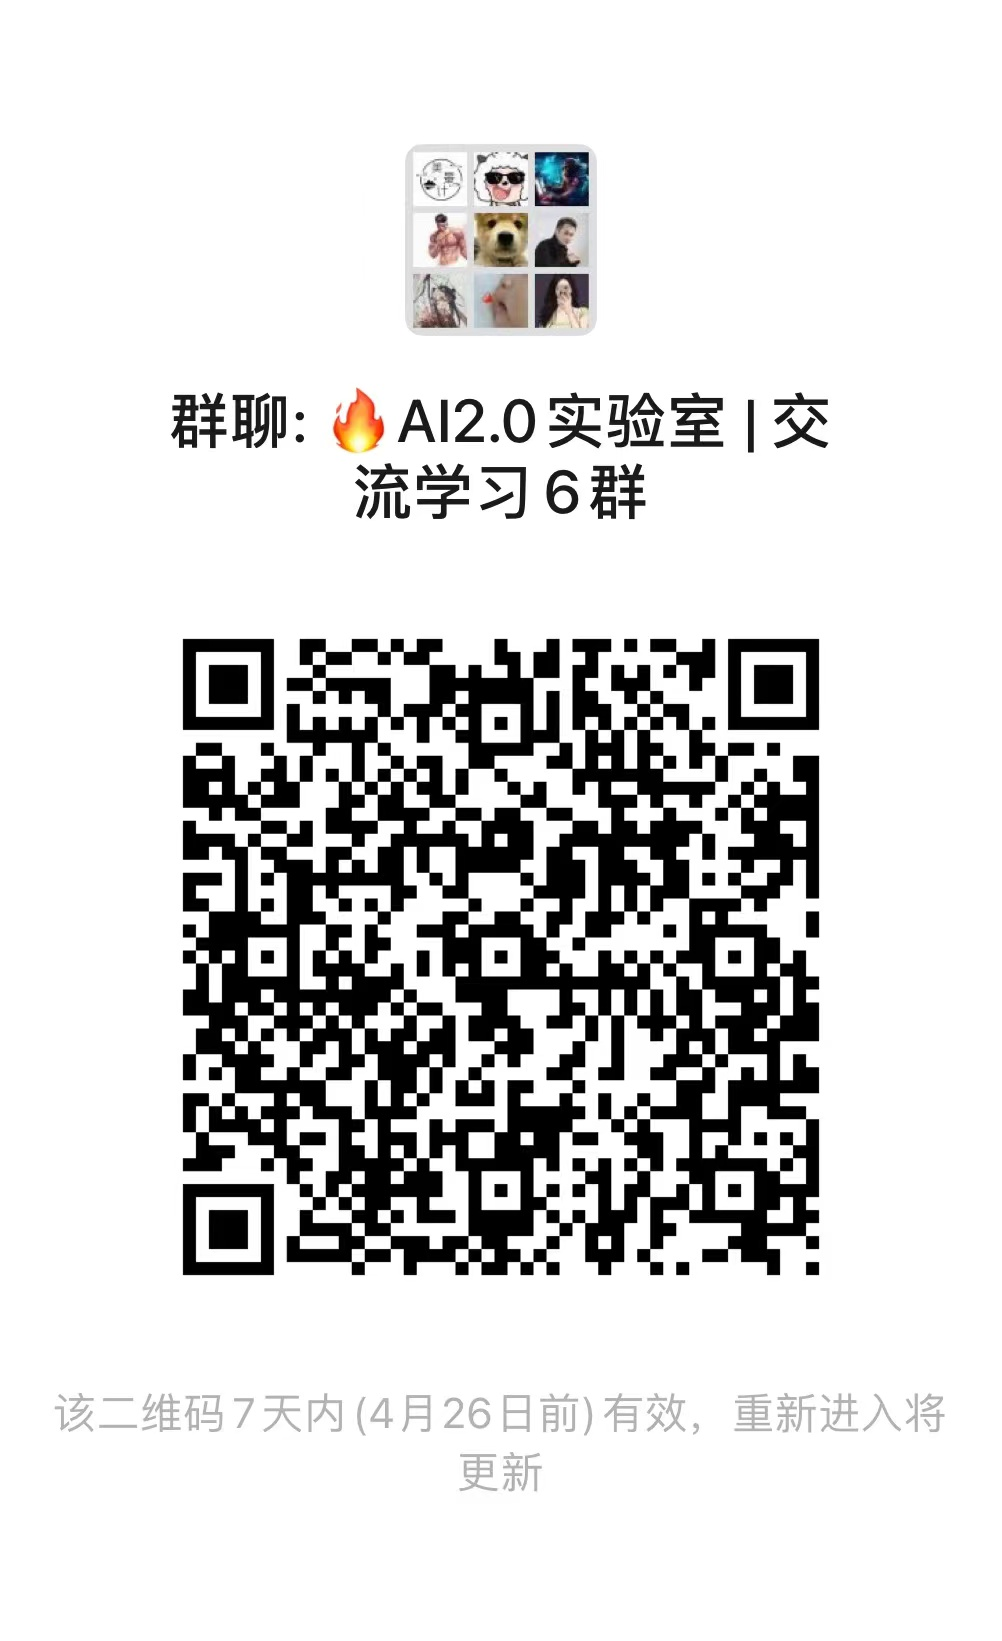
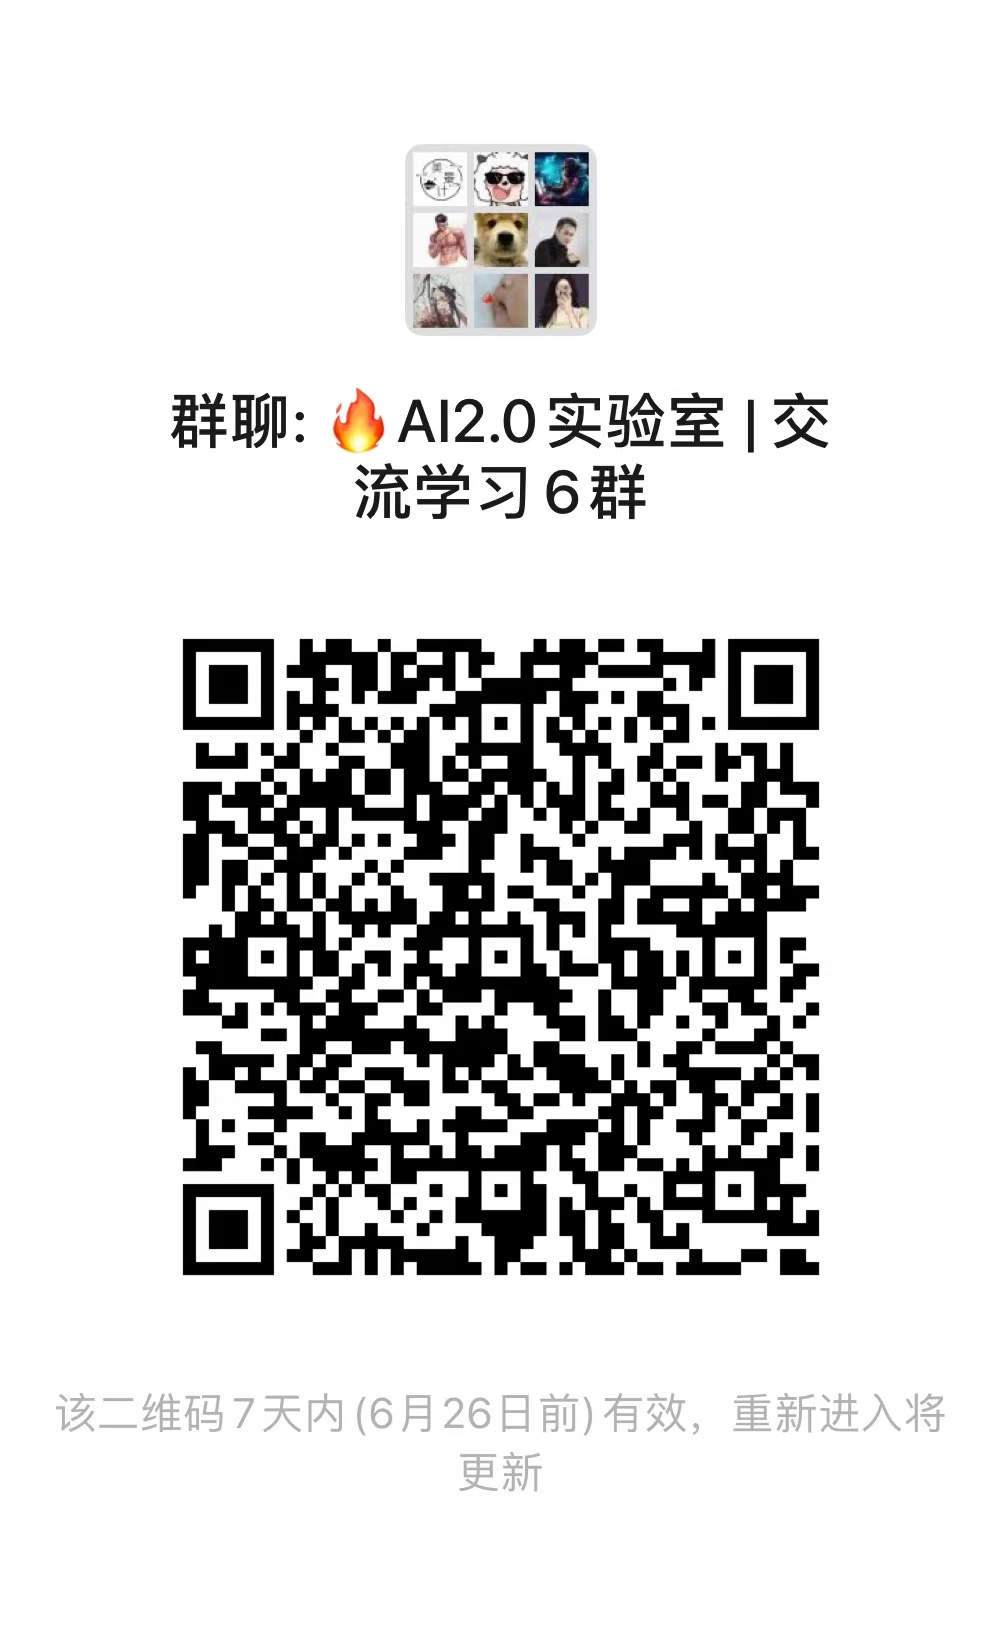
更新

diff --git a/app/locales/cn.ts b/app/locales/cn.ts
@@ -7,7 +7,7 @@ const cn = {
   WIP: "该功能仍在开发中……",
   Error: {
     Unauthorized:
-      "✅ 访问密码不正确，请前往[登录](/#/auth)页输入正确的访问密码，或者在[设置](/#/settings)页输入正确的访问密码. 或者填入你自己的 OpenAI API Key。\n\n 1. 若密码错误，可前往👉🏻[AI2.0 实验室|微信交流群](https://www.jsbcp-2.top/%E5%BE%AE%E4%BF%A1%E4%BA%A4%E6%B5%81%E7%BE%A4.png) **即时免费获取【当前密码为：vx@LHYYH0001】**。\n2. 若需体验 GPT-4 请联系我开通，GPT3.5终身免费无门槛使用！\n3. 若需 suno 音乐创作请联系我开通！\n4. 点击免费送价值298学习手册：[【必收藏】人工智能变现学院知识库](https://ydyrb84oyc.feishu.cn/wiki/SOpywcxjUikIS1k1LQZcTj0unJg)\n5. 社群简介请点击：[人工智能变现学院「AI2.0实验室」](https://ydyrb84oyc.feishu.cn/wiki/Vxg8wAFUti3VAhksSyLc4AD3n8g)\n\n✅ 社群成员可享GPT-4模型使用权限\n\n✅【个性化定制自己的AI小助手】请到 [公众号·领航猿1号](https://www.jsbcp-2.top/%E5%85%AC%E4%BC%97%E5%8F%B7%E4%BA%8C%E7%BB%B4%E7%A0%81.jpg) **AI指令提示词拆解**合集教程学习\n- [共计10节课，点此进入【破冰篇】开始学习](https://mp.weixin.qq.com/s/2hpHCNRalvcunJFed6CagQ)\n\n 本站网址不定期会有更新，建议加 [微信群](https://www.jsbcp-2.top/%E5%BE%AE%E4%BF%A1%E4%BA%A4%E6%B5%81%E7%BE%A4.png) 或私v『LHYYH0001』，以便及时获取新地址\n📣 本站接广告 及 代部署业务",
+      "✅ 访问密码不正确，请前往[登录](/#/auth)页输入正确的访问密码，或者在[设置](/#/settings)页输入正确的访问密码. 或者填入你自己的 OpenAI API Key。\n\n 1. 若密码错误，可前往👉🏻[AI2.0 实验室|微信交流群](https://www.jsbcp-2.top/%E5%BE%AE%E4%BF%A1%E4%BA%A4%E6%B5%81%E7%BE%A4.png) **即时免费获取**。\n2. 若需体验 GPT-4 请联系我开通，GPT3.5终身免费无门槛使用！\n3. 若需 suno 音乐创作请联系我开通！\n4. 点击免费送价值298学习手册：[【必收藏】人工智能变现学院知识库](https://ydyrb84oyc.feishu.cn/wiki/SOpywcxjUikIS1k1LQZcTj0unJg)\n5. 社群简介请点击：[人工智能变现学院「AI2.0实验室」](https://ydyrb84oyc.feishu.cn/wiki/Vxg8wAFUti3VAhksSyLc4AD3n8g)\n\n✅ 社群成员可享GPT-4模型使用权限\n\n✅【个性化定制自己的AI小助手】请到 [公众号·领航猿1号](https://www.jsbcp-2.top/%E5%85%AC%E4%BC%97%E5%8F%B7%E4%BA%8C%E7%BB%B4%E7%A0%81.jpg) **AI指令提示词拆解**合集教程学习\n- [共计10节课，点此进入【破冰篇】开始学习](https://mp.weixin.qq.com/s/2hpHCNRalvcunJFed6CagQ)\n\n 本站网址不定期会有更新，建议加 [微信群](https://www.jsbcp-2.top/%E5%BE%AE%E4%BF%A1%E4%BA%A4%E6%B5%81%E7%BE%A4.png) 或私v『LHYYH0001』，以便及时获取新地址\n📣 本站接广告 及 代部署业务",
     // Unauthorized: isApp
     //   ? "检测到无效 API Key，请前往[设置](/#/settings)页检查 API Key 是否配置正确。"
     //   : "访问密码不正确或为空，请前往[登录](/#/auth)页输入正确的访问密码，或者在[设置](/#/settings)页填入你自己的 OpenAI API Key。",
